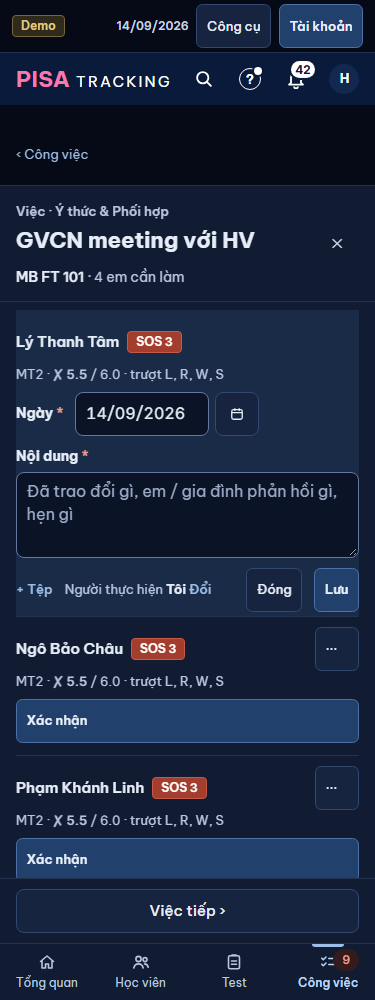
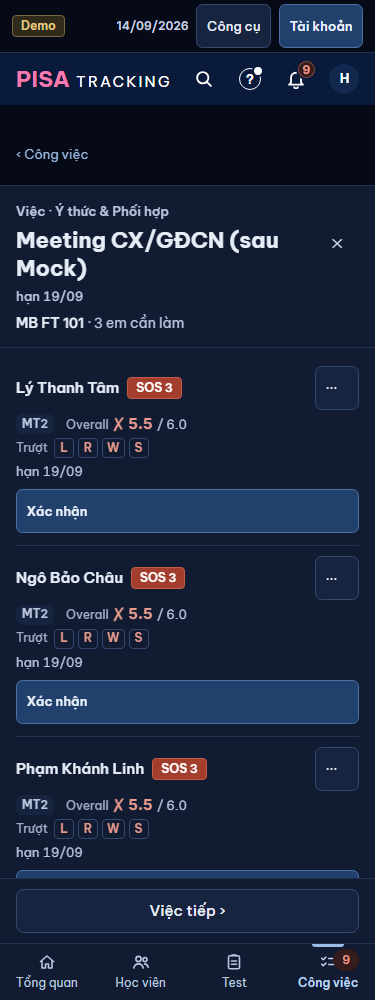
PHOI-HOP-V2 PR-1 (chủ SP 12/11): cột ① 'Học viên'; dòng điểm dưới tên em chia loại — lượt · Overall so kỳ vọng · Trượt + chip kỹ năng, không cắt chữ

diff --git a/web/src/modules/yThuc/BangPhoiHop.tsx b/web/src/modules/yThuc/BangPhoiHop.tsx
@@ -6,20 +6,21 @@ import { useToast } from '../../ui/Toast.tsx';
 import { ChipSos } from '../../ui/ChipSos.tsx';
 import { NutChon } from '../../ui/ui.tsx';
 import { Nhan } from '../../ui/Nhan.tsx';
+import { ODiem } from '../../ui/ODiem.tsx';
 import { ONgay } from '../../ui/ONgay.tsx';
 import { ChonNguoi } from '../../ui/PeoplePicker.tsx';
 import { BangChung } from '../../ui/BangChung.tsx';
 import { OKhac } from '../../ui/OKhac.tsx';
 import { useNgayNghiepVu } from '../../ui/ngayNghiepVu.ts';
 import {
-  COORDINATION_REMOVE_REASON_LABEL, COORDINATION_USER_REMOVE_REASONS, GHI_CHU_MEETING_TOI_THIEU, chuDiem, chuTruotSos, kiemGhiRoKhac, laMeetingCx, nhanHan,
-  reasonNeedsText, daysBetween, shortDate, hoanTacXacNhanDuoc, type NguoiChon,
+  COORDINATION_REMOVE_REASON_LABEL, COORDINATION_USER_REMOVE_REASONS, GHI_CHU_MEETING_TOI_THIEU, chuDiem, kiemGhiRoKhac, laMeetingCx, nhanHan,
+  reasonNeedsText, daysBetween, shortDate, hoanTacXacNhanDuoc, datTheSos, mucDiem, nhanDocTheSos, type NguoiChon,
 } from '@shared/domain/index.ts';
 import { t } from '@shared/i18n/index.ts';
 import type { CoordAction, CoordTurn } from './PhoiHopSosSection.tsx';
 
 /**
- * PHOI-HOP-V2 (chủ SP 11/11, mockup `thiet-ke/2026-11-11-phoi-hop-sos-v2` K1–K3): BẢNG ① Học viên cần làm → ② Đã làm → ③ Kết quả, mỗi em một dòng.
+ * PHOI-HOP-V2 (chủ SP 11/11, mockup `thiet-ke/2026-11-11-phoi-hop-sos-v2` K1–K3): BẢNG ① Học viên → ② Đã làm → ③ Kết quả, mỗi em một dòng.
  * `gvcn` (khoa = một loại việc): nút Xác nhận ở chính ô ② (ngày sẽ hiện ở đó), form tại dòng — Ngày + MỘT ô Nội dung (+ Tệp, Người thực hiện); Hoàn tác 10 s.
  * `tvv`: việc sau Meeting CX — ② GVCN đã xác nhận (ngày, nội dung gửi TVV), ③ Kết quả · Ngày · Nội dung như Báo PH ý thức (`/y-thuc/bao-ph/ghi`).
  * Dữ liệu: MỘT request khi mở panel (`/classes/:id/phoi-hop-sos`, việc TVV đã nạp theo lô ở máy chủ); SĐT phụ huynh chỉ đọc khi mở form TVV.
@@ -27,16 +28,32 @@ import type { CoordAction, CoordTurn } from './PhoiHopSosSection.tsx';
 export const HOAN_TAC_PHOI_HOP_MS = 10_000;
 type Dong = { luot: CoordTurn; a: CoordAction };
 
-/** Một dòng điểm gọn, chữ phụ ("MT4 · ✗ 5.0 / 6.5 · trượt L, R") — Phối hợp SOS là SOS học thuật; không màu đậm. */
-export function DiemMotDong({ th }: { th: CoordTurn['the'] }) {
+/**
+ * Rà chủ SP 12/11 ("các trường thông tin dưới tên HV… chưa phân loại rõ"): dòng phụ dưới tên em CHIA LOẠI, một thành phần cho panel Công việc,
+ * tab hồ sơ lớp, hồ sơ HV — thẻ LƯỢT (nền nhạt) · "Overall" mờ + số ✓ / ✗ ba màu (`ODiem`) + "/ kỳ vọng" · "Trượt" mờ + chip kỹ năng. Mỗi khối không ngắt
+ * dòng bên trong; thiếu chỗ thì xuống dòng GIỮA các khối — không cắt "…". `anLuot`: ô đã ghi lượt (hồ sơ HV).
+ */
+export function DiemMotDong({ th, anLuot = false }: { th: CoordTurn['the']; anLuot?: boolean }) {
   const pt = !!th.pt;
-  const dat = th.ovr == null || th.moc == null ? null : th.ovr >= th.moc;
-  const truot = chuTruotSos(th);
   return (
-    <span className="mt-0.5 block text-[13px] leading-snug text-dim">
-      {th.luot}
-      {th.ovr != null && <> · <span className="font-semibold tabular-nums">{dat === false ? '✗ ' : dat ? '✓ ' : ''}{chuDiem(th.ovr, pt)}</span>{th.moc != null && <span className="tabular-nums"> / {chuDiem(th.moc, pt)}</span>}</>}
-      {truot && <> · {truot}</>}
+    <span role="img" aria-label={nhanDocTheSos(th)} className="mt-1 flex flex-wrap items-center gap-x-3 gap-y-1 text-[13px] leading-snug">
+      {!anLuot && <span aria-hidden className="inline-flex h-5 items-center whitespace-nowrap rounded-md px-1.5 text-xs font-semibold text-dim" style={{ background: 'var(--surface-2)' }}>{th.luot}</span>}
+      {th.ovr != null && (
+        <span aria-hidden className="inline-flex items-baseline gap-1 whitespace-nowrap">
+          <span className="text-xs font-medium text-faint">{pt ? t('Tổng') : t('Overall')}</span>
+          <ODiem so={chuDiem(th.ovr, pt)} kq={mucDiem(datTheSos(th), th.ovr, th.moc)} />
+          {th.moc != null && <span className="tabular-nums text-dim">/ {chuDiem(th.moc, pt)}</span>}
+          {th.tam && <span className="text-xs text-faint">{t('tạm')}</span>}
+        </span>
+      )}
+      {th.truot.length > 0 && (
+        <span aria-hidden className="inline-flex flex-wrap items-center gap-1">
+          <span className="mr-0.5 text-xs font-medium text-faint">{t('Trượt')}</span>
+          {th.truot.map((k) => (
+            <span key={k} className="inline-flex h-5 min-w-5 items-center justify-center whitespace-nowrap rounded border px-1 text-xs font-semibold text-late" style={{ borderColor: 'var(--line-strong)' }}>{k}</span>
+          ))}
+        </span>
+      )}
     </span>
   );
 }
@@ -63,7 +80,7 @@ export function BangPhoiHop({ turns, che, onChanged, chiEm }: {
   return (
     <div role="table" className="text-sm" aria-label={tvv ? t('Báo PH · kết quả') : t('Kết quả')}>
       <div role="row" className={`${HANG} h-10 items-center border-b text-[13px] font-semibold text-dim max-sm:hidden`} style={{ borderColor: 'var(--line)' }}>
-        <span role="columnheader" className="pr-2.5">{'① '}{tvv ? t('Học viên cần báo') : t('Học viên cần làm')}</span>
+        <span role="columnheader" className="pr-2.5">{'① '}{t('Học viên')}</span>
         <span role="columnheader" className="px-2.5">{'② '}{tvv || laMeetingCx(che.loai === 'gvcn' ? che.khoa : '') ? t('GVCN xác nhận') : t('Đã làm')}</span>
         <span role="columnheader" className="px-2.5">{'③ '}{tvv ? t('Báo PH · kết quả') : t('Kết quả')}</span>
         <span role="columnheader"><span className="sr-only">{t('Thao tác khác')}</span></span>

diff --git a/shared/i18n/en/phoiHopV2.ts b/shared/i18n/en/phoiHopV2.ts
@@ -9,8 +9,6 @@ export const EN_PHOI_HOP_V2 = {
   'Báo PH · Meeting CX/GĐCN': 'Parent call · CX/Head meeting',
   '{n} em cần báo': '{n} students to inform',
   '{n} em cần làm': '{n} students to do',
-  'Học viên cần báo': 'Students to inform',
-  'Học viên cần làm': 'Students to do',
   'GVCN xác nhận': 'Homeroom confirmed',
   'Báo PH · kết quả': 'Parent call · result',
   'Đã báo': 'Informed',

diff --git a/thiet-ke/2026-11-11-phoi-hop-sos-v2/khop-khac-cv.md b/thiet-ke/2026-11-11-phoi-hop-sos-v2/khop-khac-cv.md
@@ -36,3 +36,10 @@ Seed 14/09/2026, GVCN Trần Ngọc Hà (MB FT 101), TVV Phan Mai. Phông Be Vie
 | + Thêm việc | đầu thẻ em (panel) | hồ sơ lớp / HV (giữ như cũ) — panel Công việc là việc của một loại |
 | Nội dung đã báo TVV (lớp thường) | panel Báo phụ huynh qua TVV | không đổi (`PanelBaoPh`) |
 | Việc tiếp › | không có | chân panel |
+
+## Chủ SP rà ảnh 12/11 (không mockup lại)
+| Chỗ | Mockup #1368 | Web | |
+|---|---|---|---|
+| Tiêu đề cột ① | "Học viên cần làm" / "Học viên cần báo" | "Học viên" | KHÁC — chủ SP 12/11 |
+| Dòng phụ dưới tên em | một chuỗi "MT2 · ✗ 5.5 / 6.0 · trượt L, R, W, S" | CHIA LOẠI: thẻ lượt "MT2" · "Overall" mờ + số ✗ / ✓ ba màu + "/ 6.0" · "Trượt" mờ + chip L R W S; xuống dòng giữa các khối, không cắt | KHÁC — chủ SP 12/11; một thành phần `DiemMotDong` cho panel, hồ sơ lớp, hồ sơ HV |
+Ảnh: `anh-cap/cv-1440-panel-diem-web.png`, `anh-cap/cv-375-panel-web.png`.
